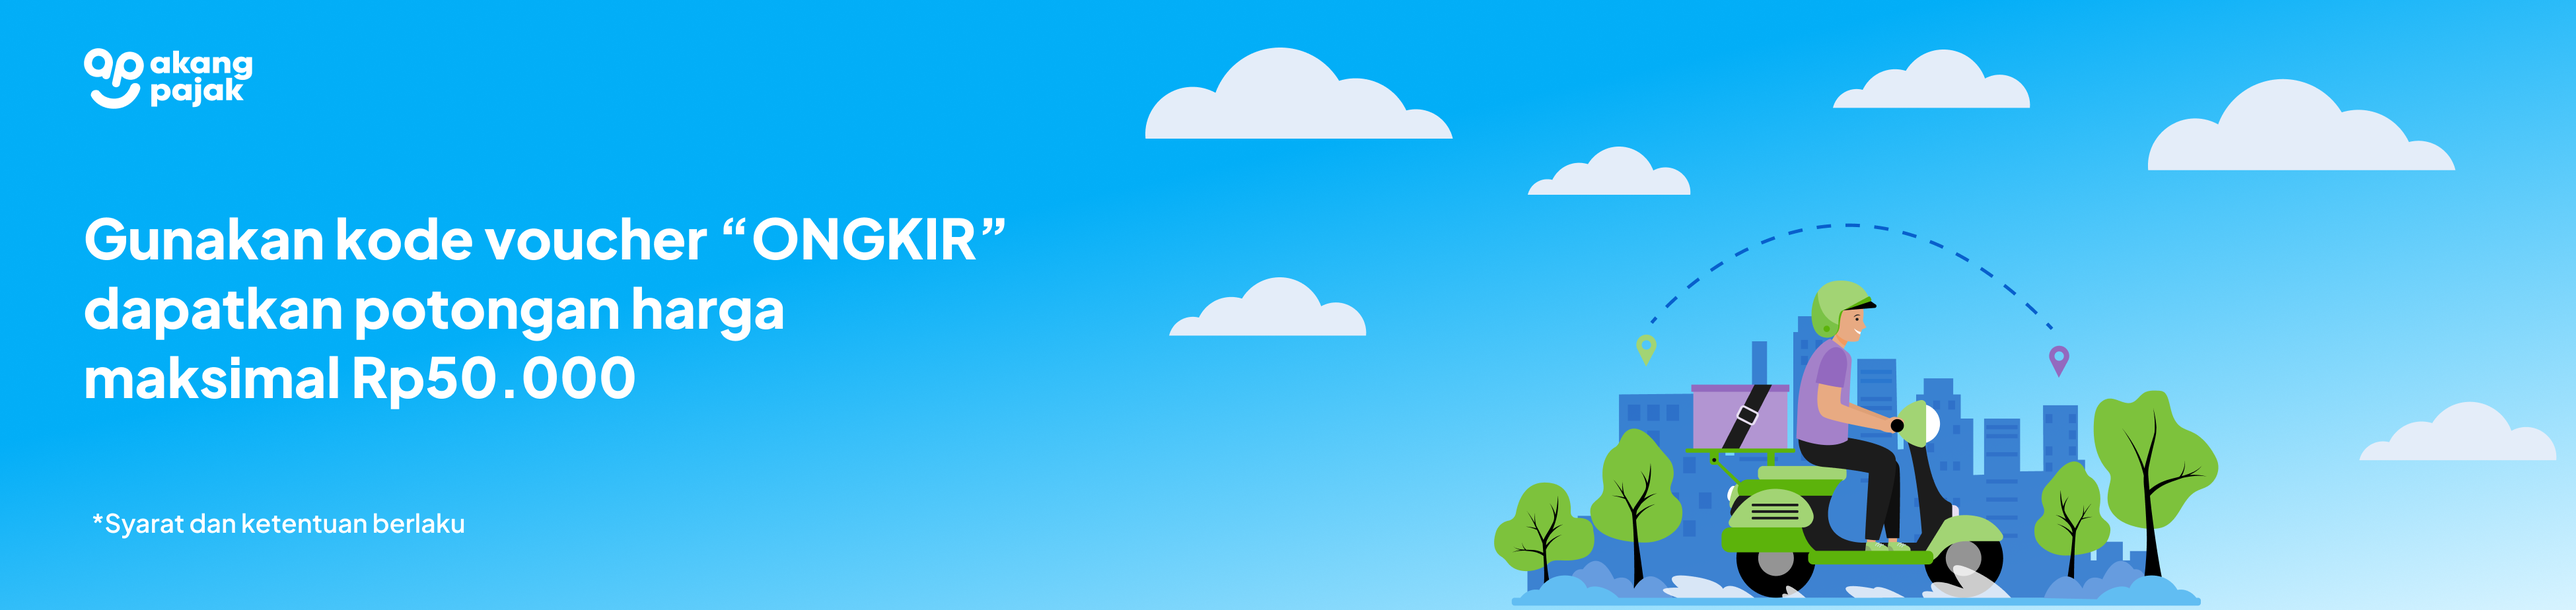
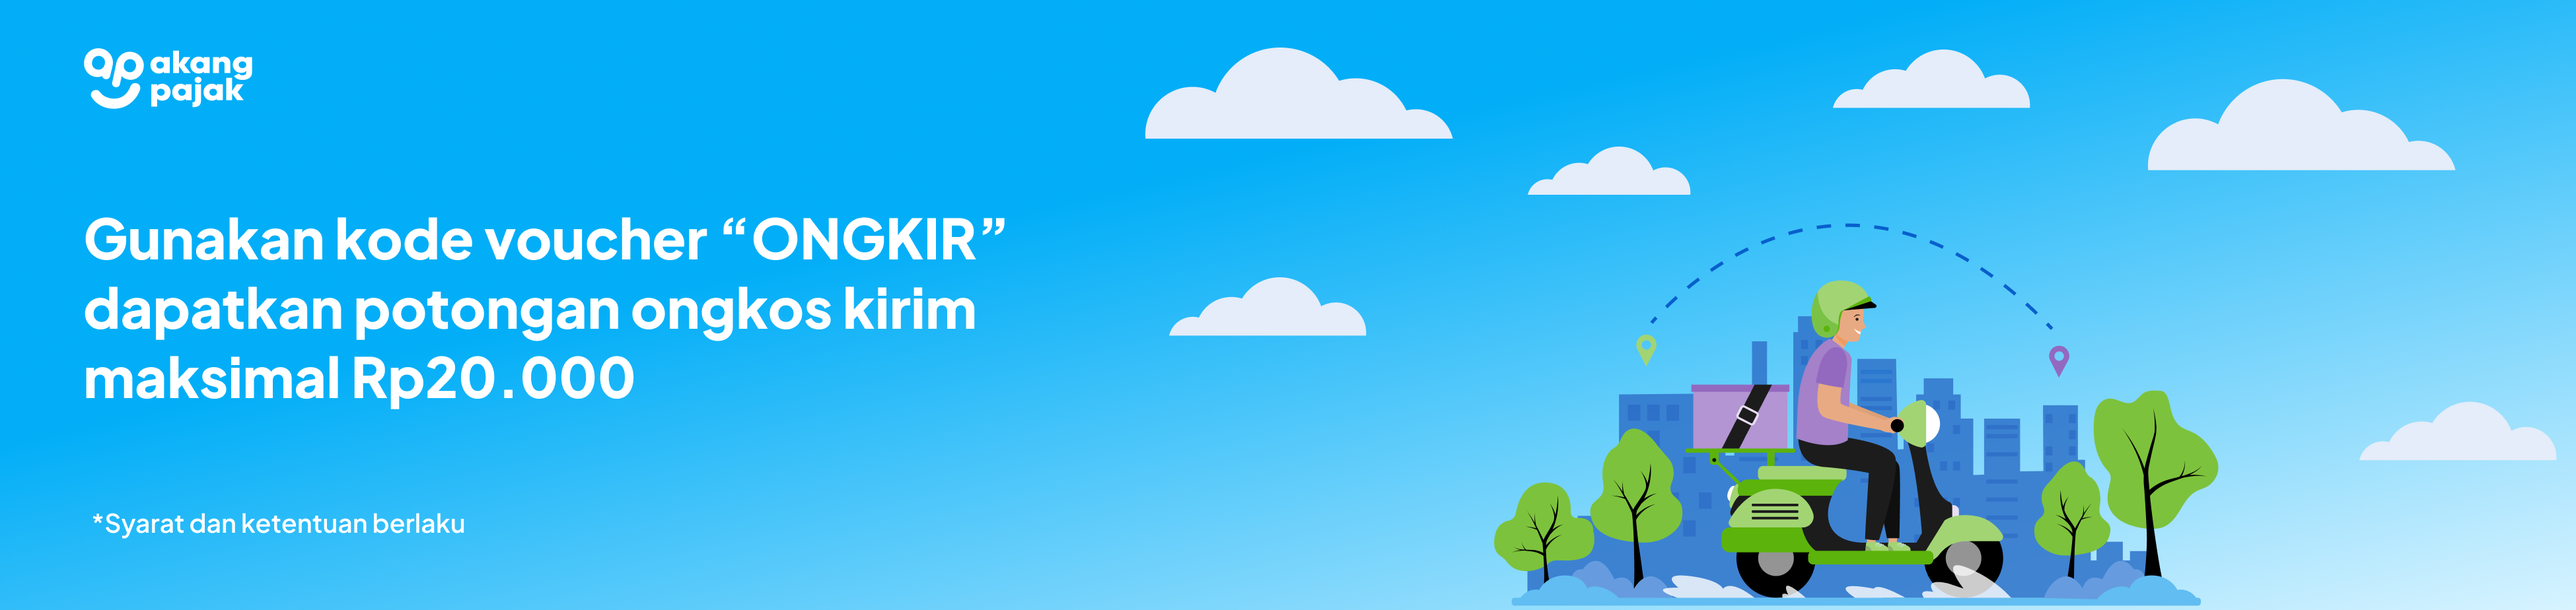
Update submit function and ongkir

Changed region(s): [[0.2482, 0.4848, 0.4033, 0.5758], [0.1551, 0.5758, 0.2482, 0.6364]]

diff --git a/src/pages/order/index.tsx b/src/pages/order/index.tsx
@@ -34,6 +34,7 @@ export const OrderForm = () => {
     resolver: zodResolver(orderSchema),
     defaultValues: {
       ...orderData,
+      jenisMutasi: orderData.jenisMutasi || 'Lengkap',
     }
   });
 
@@ -78,7 +79,10 @@ export const OrderForm = () => {
                     </div>
                   ) : field.type === 'select' ? (
                     <Select 
-                      onValueChange={(val) => { setValue(field.id, val); trigger(field.id); }} 
+                      onValueChange={(val) => { 
+                        setValue(field.id, val as OrderFormData[keyof OrderFormData]); 
+                        trigger(field.id); 
+                      }} 
                       defaultValue={orderData[field.id] as string}
                     >
                       <SelectTrigger className={`${inputStyles} ${error ? 'border-red-500' : ''}`}>
@@ -92,15 +96,18 @@ export const OrderForm = () => {
                     </Select>
                   ) : field.type === 'radio' ? (
                     <RadioGroup 
-                      value={(watchValues[field.id] as string)} 
-                      onValueChange={(val) => { setValue(field.id, val); trigger(field.id); }} 
+                      value={(watchValues[field.id] as string) || ''} 
+                      onValueChange={(val) => { 
+                        setValue(field.id, val as OrderFormData[keyof OrderFormData]); 
+                        trigger(field.id); 
+                      }} 
                       className="flex gap-2"
                     >
                       {field.options?.map((val) => (
                         <div key={val} className="flex-1">
-                          <RadioGroupItem value={val} id={val} className="sr-only" />
+                          <RadioGroupItem value={val} id={`${field.id}-${val}`} className="sr-only" />
                           <Label
-                            htmlFor={val}
+                            htmlFor={`${field.id}-${val}`}
                             className={`block py-2.5 text-center rounded-xl border cursor-pointer text-xs font-bold transition-all
                               ${watchValues[field.id] === val ? 'bg-[#E0F4FF] border-[#27AAE1] text-[#27AAE1]' : 'bg-gray-100 border-gray-100 text-gray-400'}
                               ${error ? 'border-red-500' : ''}`}

diff --git a/src/pages/payment/components/PickupTypeCard.tsx b/src/pages/payment/components/PickupTypeCard.tsx
@@ -22,7 +22,7 @@ export const PickupTypeCard = ({ address, onEditAddress }: PickupTypeCardProps) 
             </div>
             <div>
               <p className="text-[16px] text-gray-800 font-bold leading-tight font-inter">Dokumen Dijemput</p>
-              <p className="text-[16px] font-bold text-gray-800 mt-1 font-inter">Rp50.000</p>
+              <p className="text-[16px] font-bold text-gray-800 mt-1 font-inter">Rp20.000</p>
             </div>
           </div>
         </div>

diff --git a/src/pages/payment/components/OrderSummary.tsx b/src/pages/payment/components/OrderSummary.tsx
@@ -17,7 +17,7 @@ export const OrderSummary = ({ serviceImage, serviceTitle, onPayClick }: OrderSu
   const [voucherError, setVoucherError] = useState(false);
 
   const baseSubtotal = 2651000;
-  const originalPickupFee = 50000;
+  const originalPickupFee = 20000;
   
   const isOngkirVoucher = appliedVoucherType === 'ONGKIR';
   const isDiscountVoucher = appliedVoucherType === 'DISCOUNT';

diff --git a/src/pages/promo/PromoDetailPage.tsx b/src/pages/promo/PromoDetailPage.tsx
@@ -47,7 +47,7 @@ const PROMO_DATA: Record<string, PromoContent> = {
   "Akang Pajak-special": {
     title: "Syarat & Ketentuan Promo Spesial Pengguna Baru Akang Pajak",
     bannerImg: "/banners/promo-akang-pajak-ongkir.png",
-    badge: "Potongan Rp50.000",
+    badge: "Potongan Rp20.000",
     expiry: "Hingga 31 Des 2026",
     sections: [
       {
